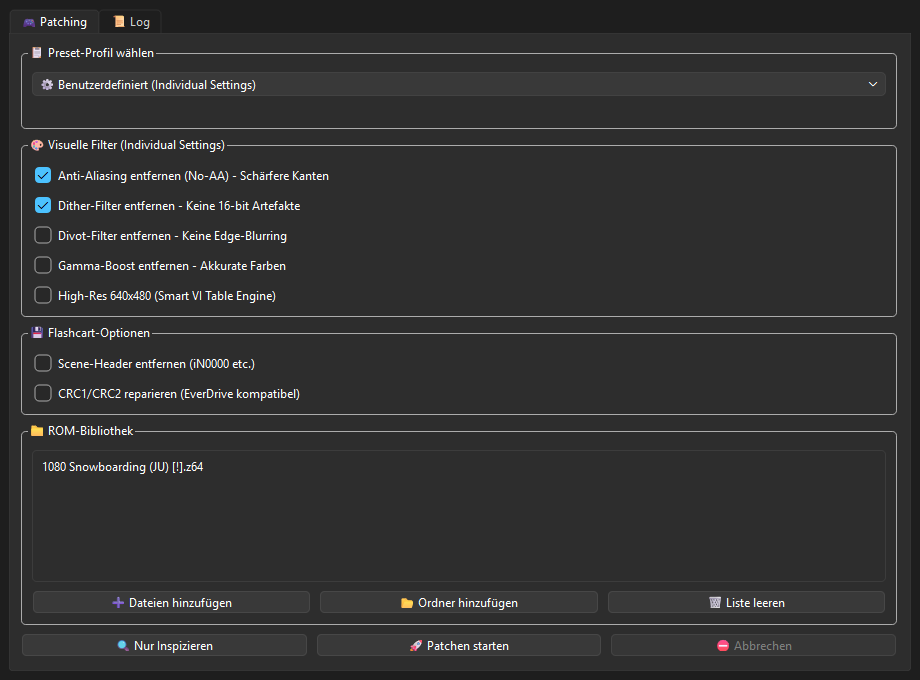
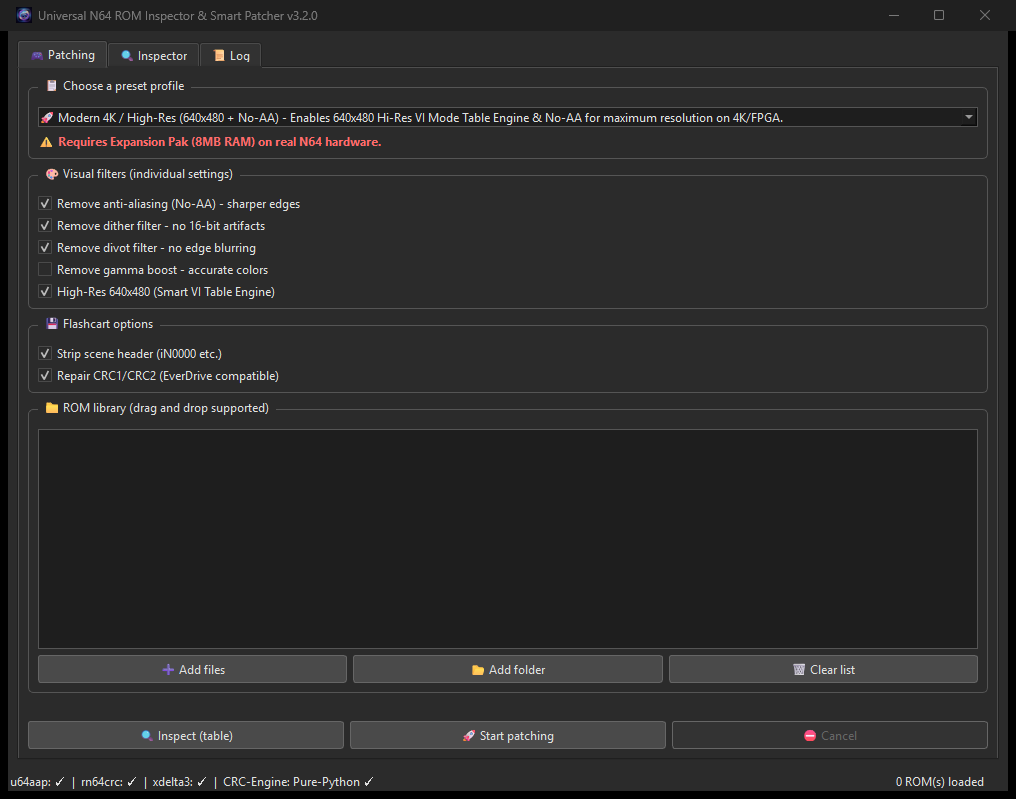
Fix "&" in a Qt group box title; refresh README and screenshot
Qt reads a bare "&" in a QGroupBox title as a mnemonic marker, so
"ROM library (drag & drop supported)" rendered as "drag _drop supported".
setWindowTitle is unaffected, so the window caption was already correct.

README consistency pass:
- the intro still advertised "zero-false-positive" patching, which the
  Technical Details section explicitly declines to claim
- a feature bullet still said compatibility "has not been measured in a
  form we can publish", contradicting the validation table added below it
- test count said 148 in two places; it is 158
- one v3.2 bullet still described SubDrag deltas as region-gated, three
  lines under the bullet explaining they are now matched on CRC1/CRC2
- Transparency section linked n64_core.py and N64_Smart_Patcher_GUI.py at
  the repo root, where neither has lived since the package restructure
- the CRC repairer description predated the "verify the tool's output"
  fix, and the batch runner description predated cancellation

Screenshot was the pre-translation German UI showing two tabs; recaptured
from the built executable, which also evidences that the frozen build
resolves its bundled helpers (u64aap / rn64crc / xdelta3 all shown OK in
the status bar).

Claude-Session: https://claude.ai/code/session_012amZSEvPou7LaZdqc21CxY

Changed region(s): [[0.0, 0.0, 1.0, 1.0], [0.213, 0.0618, 0.2435, 0.0926]]

diff --git a/src/n64patcher/gui.py b/src/n64patcher/gui.py
@@ -249,7 +249,9 @@ class N64PatcherGUI(QMainWindow):
         flashcart_group.setLayout(flashcart_layout)
         patch_layout.addWidget(flashcart_group)
 
-        list_group = QGroupBox("📁 ROM library (drag & drop supported)")
+        # No bare "&" in a QGroupBox title: Qt reads it as a mnemonic marker
+        # and renders "drag & drop" as "drag _drop".
+        list_group = QGroupBox("📁 ROM library (drag and drop supported)")
         list_layout = QVBoxLayout()
         self.rom_list_widget = QListWidget()
         list_layout.addWidget(self.rom_list_widget)

diff --git a/README.md b/README.md
@@ -2,7 +2,7 @@
 
 ![N64 Smart Patcher Icon](app_icon.png)
 
-A modern, high-performance GUI + CLI ROM patcher and inspection utility for Nintendo 64 games. Features the **Smart VI Mode Table Engine v2.0** for zero-false-positive 640x480 high-resolution patching, anti-aliasing (No-AA) removal, dither/divot/gamma filter toggles, SubDrag `.xdelta` integration, preset profiles, archive extraction, and Flashcart CRC/Header tools.
+A modern, high-performance GUI + CLI ROM patcher and inspection utility for Nintendo 64 games. Features the **Smart VI Mode Table Engine v2.0** for structurally-verified 640x480 high-resolution patching, anti-aliasing (No-AA) removal, dither/divot/gamma filter toggles, SubDrag `.xdelta` integration, preset profiles, archive extraction, and Flashcart CRC/Header tools.
 
 **Cross-platform**: the bundled Windows helpers (`u64aap.exe`, `rn64crc.exe`, `xdelta3.exe`) are used when runnable, with graceful fallbacks everywhere else — a **built-in pure-Python CRC1/CRC2 engine** (works on macOS/Linux), the dynamic VI instruction patcher for No-AA, and an optional system `xdelta3` from PATH.
 
@@ -18,9 +18,11 @@ Designed for use with real N64 hardware, FPGA consoles (Analogue 3D, ModRetro M6
     known burst constant are modified, so unrelated data that merely contains
     `0x00000140` is left alone. See *Technical Details* for what this does and
     does not guarantee.
-  - Compatibility across a large ROM set has not been measured in a form we can
-    publish. `--verify` (below) generates a per-ROM pass/fail matrix from your
-    own library if you want the number for your collection.
+  - The CRC engine behind every patched output is measured: it reproduces the
+    publisher's stamped checksums on **1,492 of 1,496** real ROMs
+    (see *Validation against a real ROM library*). End-to-end patch
+    compatibility is not claimed as a single number - generate it for your own
+    collection with `--verify-report`.
 
 - **📋 One-Click Preset Profiles**:
   - `📺 CRT Authentic`: Preserves original N64 blur for CRT displays.
@@ -30,7 +32,7 @@ Designed for use with real N64 hardware, FPGA consoles (Analogue 3D, ModRetro M6
 
 - **💾 Flashcart & EverDrive Compatibility Tools**:
   - **Scene-Header Stripper**: Automatically detects and strips obsolete 512/1024-byte scene release headers (`iN0000`, `PARADOX`, etc.) so `.xdelta` patches and cover arts match cleanly.
-  - **CRC1 / CRC2 Checksum Repairer**: Recalculates and updates N64 boot checksums to prevent blackscreen boots on real hardware — via `rn64crc.exe` where runnable, otherwise via the **built-in pure-Python CRC engine** (macOS/Linux included).
+  - **CRC1 / CRC2 Checksum Repairer**: Recalculates and updates N64 boot checksums to prevent blackscreen boots on real hardware — via `rn64crc.exe` when it is runnable *and* its output actually verifies, otherwise via the **built-in pure-Python CRC engine** (macOS/Linux included).
 
 - **📦 Archive & Community Patch Support**:
   - **Direct Archive Support**: Processes `.zip` and `.7z` archives directly.
@@ -40,7 +42,7 @@ Designed for use with real N64 hardware, FPGA consoles (Analogue 3D, ModRetro M6
   - Automatically detects and applies verified high-res patches for *Super Mario 64*, *GoldenEye 007*, *Banjo-Kazooie*, *F-Zero X*, *Forsaken 64*, *Pokemon Snap*, *Quake II*, and *Golden Nugget 64*.
 
 - **🚀 Multi-Threaded Batch Runner**:
-  - Parallel ThreadPoolExecutor batch processing with bulletproof exception handling so bad files won't crash batch runs.
+  - Parallel ThreadPoolExecutor batch processing. A bad file cannot crash the run, output is logged from a single thread, and Ctrl+C stops the batch while keeping everything already finished.
 
 - **🛡 100% Non-Destructive**:
   - Original ROMs are **never modified or overwritten**. Always outputs a new tagged file (` [HR+NoAA].z64`).
@@ -177,7 +179,7 @@ the installed package rather than the working directory):
 - `mmap_vi_scanner.py` — Memory-mapped fast VI table scanner (used by inspection).
 - `gui.py` — PyQt6 GUI with preset controls, background inspector table, drag & drop & thread exception safety.
 - `cli.py` — Headless CLI runner (`n64patcher`).
-- `tests/` — Synthetic ROM unit suite, 148 tests, no game files required.
+- `tests/` — Synthetic ROM unit suite, 158 tests, no game files required.
 
 ---
 
@@ -195,8 +197,8 @@ the installed package rather than the working directory):
   - **Archive hardening**: the extraction cap is enforced on bytes as they arrive rather than on attacker-controlled declared sizes; compression-ratio limit; symlink members rejected; members are written to the validated path instead of letting the extractor choose.
   - **Concurrency**: batch runs are cancellable (Ctrl+C included, keeping finished work), log output is drained on a single thread, and working files no longer land in a possibly read-only input directory.
   - **New**: `--verify` / `--verify-report` re-check every output independently and emit a publishable pass/fail matrix (hashes + result, no ROM data).
-  - **Tooling**: `ruff` and `mypy` clean and enforced in CI; test suite grown to 148; CI additionally proves a dependency-free install and that the wheel actually contains the bundled helpers.
-  - Also fixed: IPS patches applied to byte-swapped ROMs without complaint; `no_aa` was OR'd with `no_dither`, so dither-patched ROMs were skipped as fully patched; `header_utils` reported a 3-character game code where the core reported 4; SubDrag deltas are region-gated instead of attempted on any title match.
+  - **Tooling**: `ruff` and `mypy` clean and enforced in CI; test suite grown to 158; CI additionally proves a dependency-free install and that the wheel actually contains the bundled helpers.
+  - Also fixed: IPS patches applied to byte-swapped ROMs without complaint; `no_aa` was OR'd with `no_dither`, so dither-patched ROMs were skipped as fully patched; `header_utils` reported a 3-character game code where the core reported 4.
 - **v3.1.0 (Quality & Cross-Platform)**:
   - Added built-in pure-Python N64 boot CRC engine (CIC 6101-6106 + 64DD/Aleck64 detection) — CRC1/CRC2 repair now works on macOS/Linux.
   - Rewrote BPS patcher to the reference spec (fixed VLV decode, copy commands) with full CRC32 verification; hardened IPS patcher.
@@ -294,19 +296,25 @@ This application was developed using **Vibecoding** — a modern AI-assisted sof
 
 ### 🛠 AI Development Toolchain:
 - **AI Coding Agent**: **Google DeepMind Antigravity Agentic AI**
-- **LLM Engines**: **Qwen 3.8 Max**, **Kimi K3**, **Gemini 3.6 Flash** & **Claude 3.5 / 4.6 Thinking**
+- **LLM Engines**: **Claude Opus 5**, **Qwen 3.8 Max**, **Kimi K3**, **Gemini 3.6 Flash** & **Claude 3.5 / 4.6 Thinking**
 - **Image Synthesis**: Antigravity `generate_image` (retro-futuristic 3D N64 app icon)
 - **Deployment Automation**: GitHub CLI (`gh`), Git, and PyInstaller
+
+The v3.2 hardening pass — the CRC engine correction, the output-collision and
+external-tool-trust fixes, the package restructure and the SubDrag CRC table —
+was carried out with **Claude Opus 5** in Claude Code, working against a real
+1,549-ROM library rather than synthetic fixtures alone.
 
 ---
 
 ## 🔍 Transparency & Verifiability
 
 **100% of everything this tool does is fully verifiable:**
-1. **Full Open-Source Code**: Every line of code is open-source in [`n64_core.py`](n64_core.py) and [`N64_Smart_Patcher_GUI.py`](N64_Smart_Patcher_GUI.py).
+1. **Full Open-Source Code**: Every line is open source under [`src/n64patcher/`](src/n64patcher) — the engine in [`n64_core.py`](src/n64patcher/n64_core.py), the GUI in [`gui.py`](src/n64patcher/gui.py).
 2. **Detailed Execution Logs**: Execution logs are saved to `%APPDATA%\N64SmartPatcher\N64_Patcher_Log.txt`.
 3. **Hex & Binary Diff Auditing**: Originals are never overwritten; compare files with `fc /b` or HxD.
 4. **Self-Inspecting ROM Tree**: Drag patched ROMs back in to audit header CRCs and VI statuses.
+5. **Independent Re-Verification**: `--verify` re-opens each output and re-derives its checksums from the data, rather than trusting the code that wrote it. `--verify-report` emits the per-ROM result as CSV/JSON.
 
 ---
 
